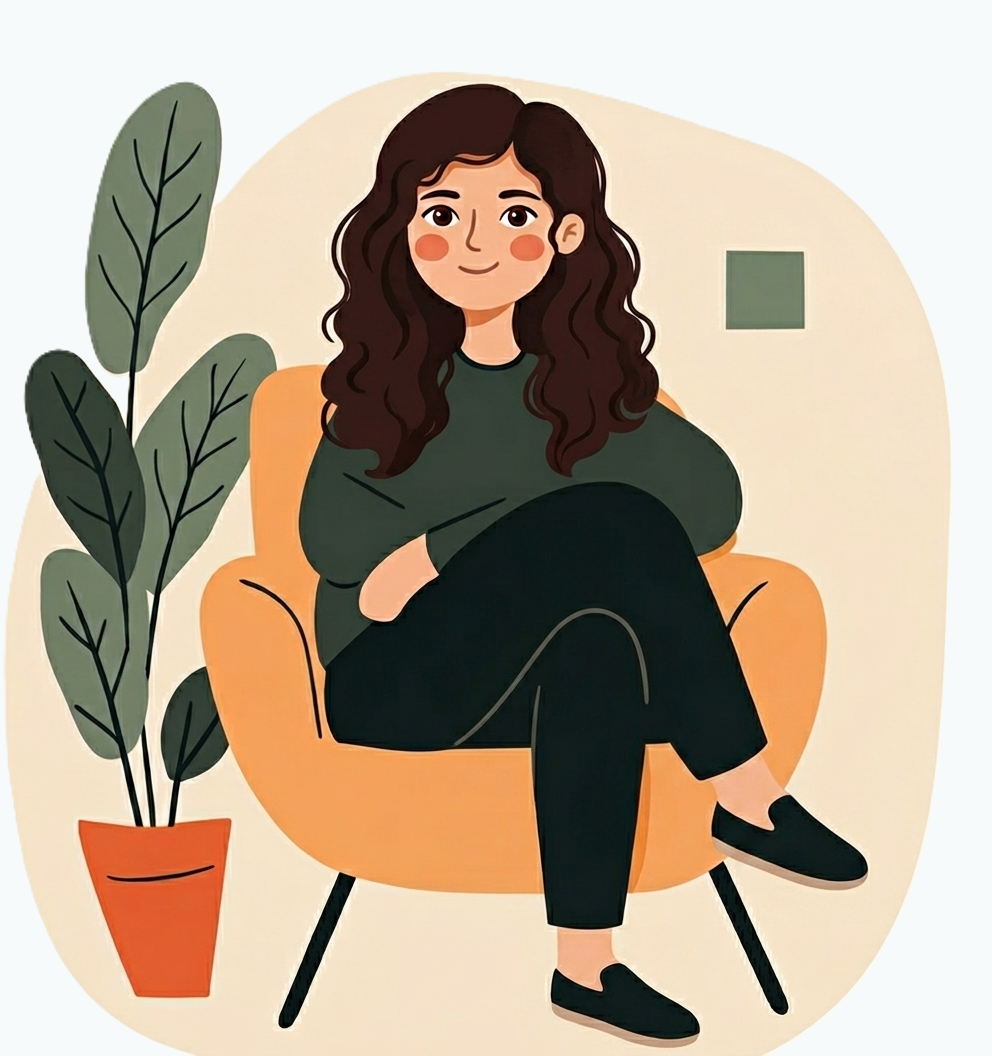
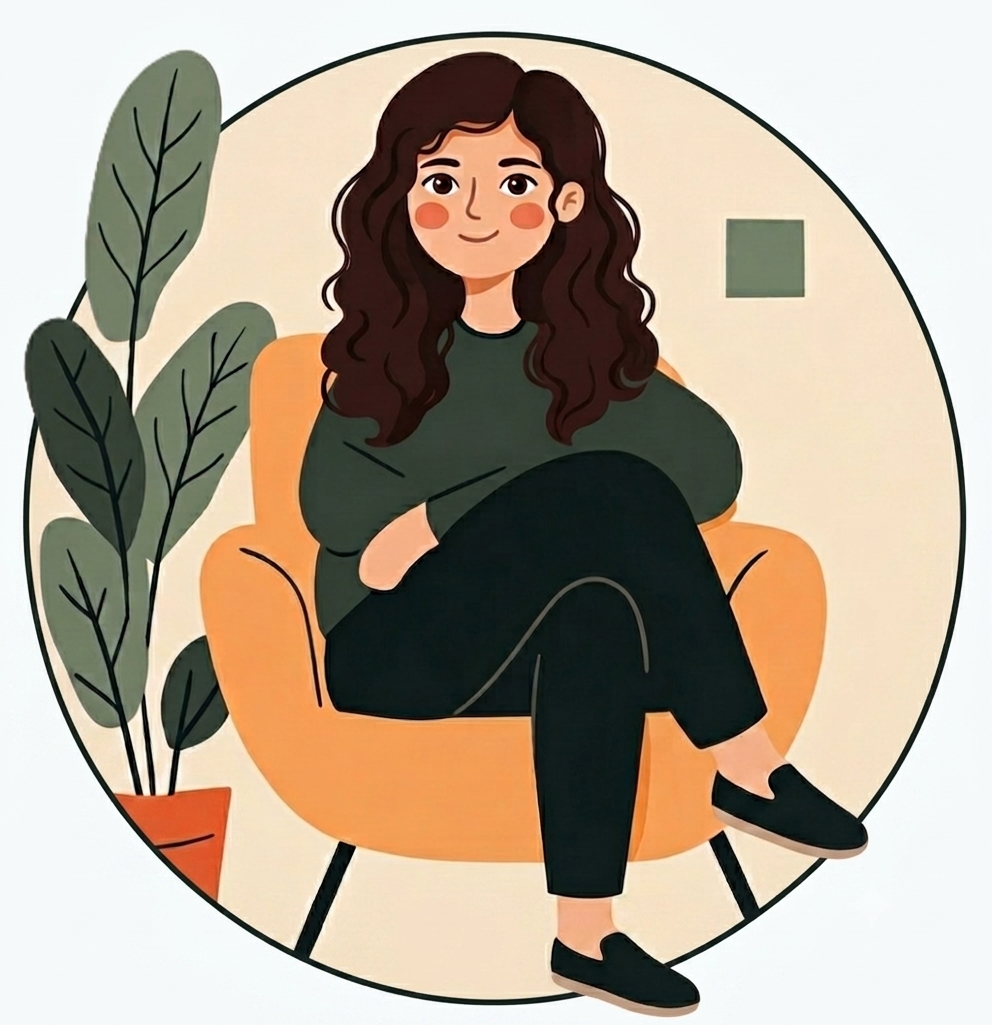
style(sobre-mi): refinar sección "Mi historia" e imagen
- Efecto "página de libro" on-palette: página blanca, hojas apiladas verde
  claro (--clr-primary-llt), cita blanca destacada con filo teal y sombra.
- Fondo de la sección con la imagen mariposa_paisaje.png (escritorio/tablet).
- En móvil (<=640px): sin imagen ni hojas; la página rellena la sección con
  fondo verde claro, para una lectura cómoda.
- Imagen about__image-real a altura natural: bordes redondeados en las cuatro
  esquinas (también la inferior).

diff --git a/css/styles.css b/css/styles.css
@@ -420,9 +420,7 @@ input, textarea, select { font-family: inherit; }
 .about__image-wrap { position: relative; }
 .about__image-real {
   width: 100%;
-  aspect-ratio: 3/4;
-  object-fit: contain;
-  object-position: center top;
+  height: auto;
   display: block;
   border-radius: var(--radius-xl);
 }
@@ -1627,7 +1625,7 @@ input, textarea, select { font-family: inherit; }
 /* ---- HISTORIA / ABOUT-STORY (sobre-mi.html, mobile-first) ---- */
 .about-story {
   padding: 3.5rem 1.25rem;
-  background: var(--clr-primary-llt);
+  background: url('../assets/mariposa_paisaje.png') center center / cover no-repeat;
 }
 /* --- Efecto "página de un libro" --- */
 .about-story__inner {
@@ -1636,10 +1634,10 @@ input, textarea, select { font-family: inherit; }
   max-width: 68ch;
   margin: 0 auto;
   padding: clamp(1.75rem, 6vw, 3.25rem) clamp(1.5rem, 6vw, 3rem);
-  background: #fbf6ec;
-  border: 1px solid #e7dcc4;
+  background: #ffffff;
+  border: 1px solid var(--clr-border);
   border-radius: 4px;
-  box-shadow: 0 18px 45px -20px rgba(61, 115, 112, 0.35), 0 2px 6px rgba(0, 0, 0, 0.05);
+  box-shadow: 0 18px 45px -20px rgba(61, 115, 112, 0.35), 0 2px 6px rgba(61, 115, 112, 0.06);
 }
 /* hojas apiladas detrás, ligeramente giradas, asomando por las esquinas */
 .about-story__inner::before,
@@ -1648,8 +1646,8 @@ input, textarea, select { font-family: inherit; }
   position: absolute;
   z-index: -1;
   inset: 0;
-  background: #f5edda;
-  border: 1px solid #e7dcc4;
+  background: var(--clr-primary-llt);
+  border: 1px solid var(--clr-primary-lt);
   border-radius: 4px;
 }
 .about-story__inner::before { transform: rotate(-1.6deg); }
@@ -1657,7 +1655,7 @@ input, textarea, select { font-family: inherit; }
 .about-story__text {
   font-family: var(--font-serif);
   font-size: 1.05rem;
-  color: #4a4036;
+  color: var(--clr-text-muted);
   line-height: 1.95;
   margin-bottom: 1.4rem;
 }
@@ -1672,17 +1670,38 @@ input, textarea, select { font-family: inherit; }
 }
 .about-story__quote {
   margin: 2rem 0;
-  padding: 1.25rem 1.6rem;
-  background: rgba(61, 115, 112, 0.05);
-  border-left: 3px solid var(--clr-primary-dk);
+  padding: 1.5rem 1.75rem;
+  background: #ffffff;
+  border-left: 4px solid var(--clr-primary-ddk);
   border-radius: 0 var(--radius-sm) var(--radius-sm) 0;
+  box-shadow: var(--shadow-md);
 }
 .about-story__quote p {
   font-family: var(--font-serif);
   font-style: italic;
+  font-weight: 600;
   font-size: 1.1rem;
-  color: #3a322a;
+  color: var(--clr-text);
   line-height: 1.75;
+}
+
+/* En smartphone: sin imagen de fondo ni hojas apiladas, para no entorpecer la
+   lectura. La "página" blanca ocupa toda la sección, de borde a borde. */
+@media (max-width: 640px) {
+  .about-story {
+    padding: 0;
+    background: #ffffff;
+  }
+  .about-story__inner {
+    max-width: none;
+    margin: 0;
+    padding: 2.5rem 1.25rem;
+    background: var(--clr-primary-llt);
+  }
+  .about-story__inner::before,
+  .about-story__inner::after {
+    display: none;
+  }
 }
 
 @media (min-width: 768px) {
